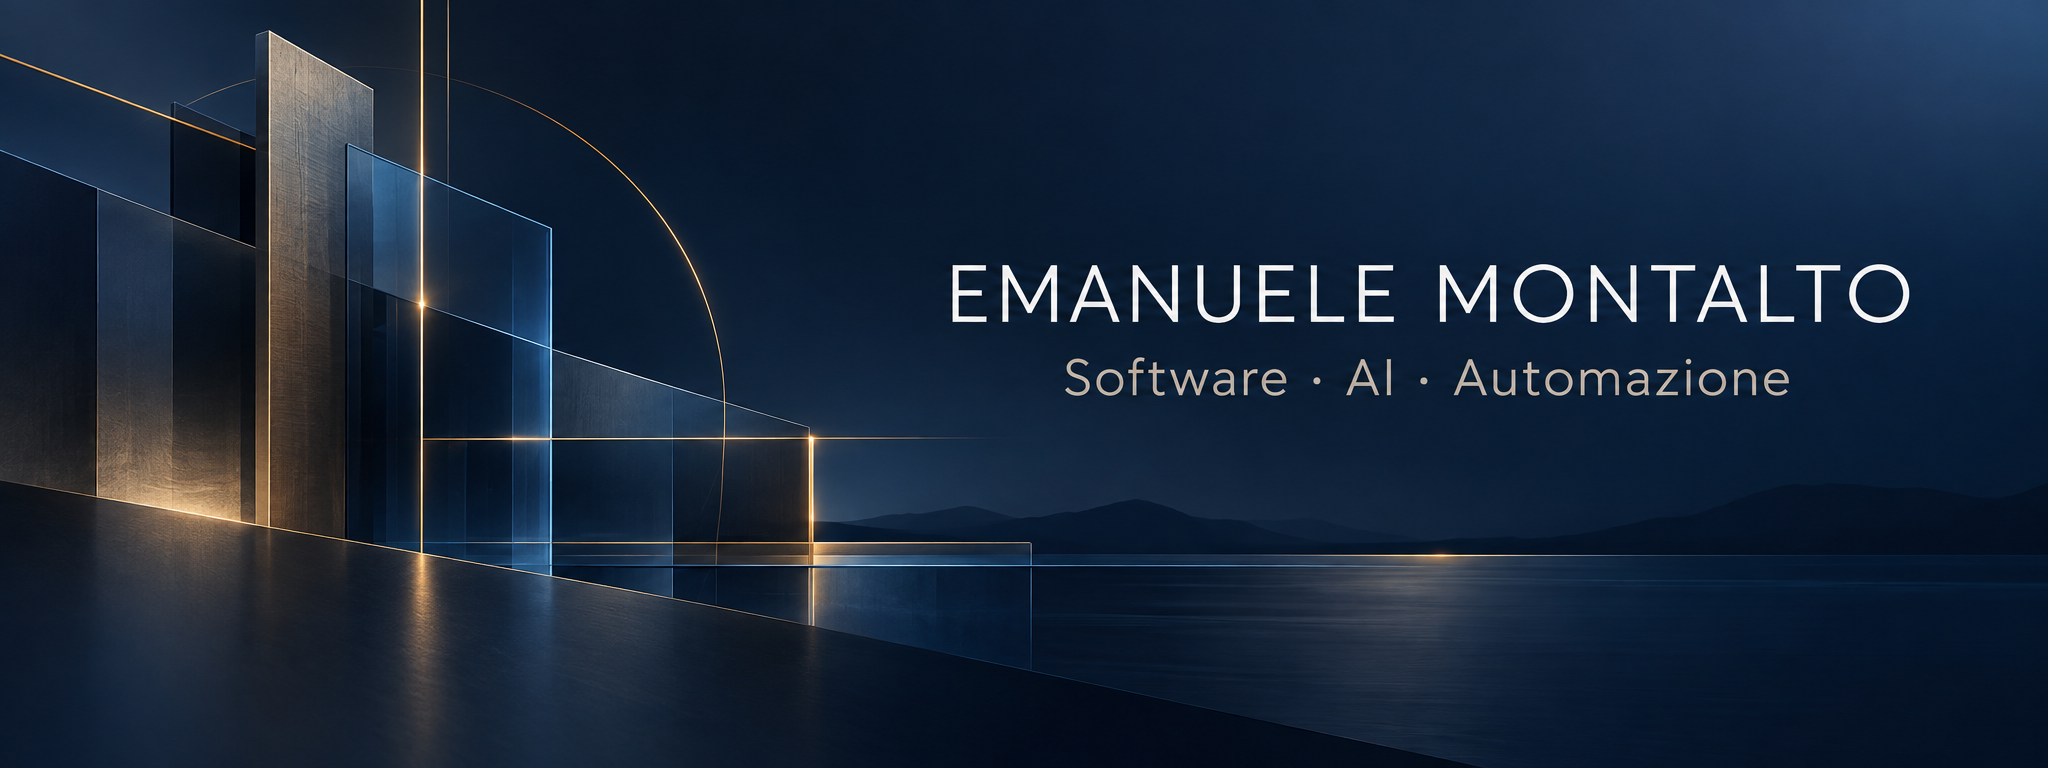
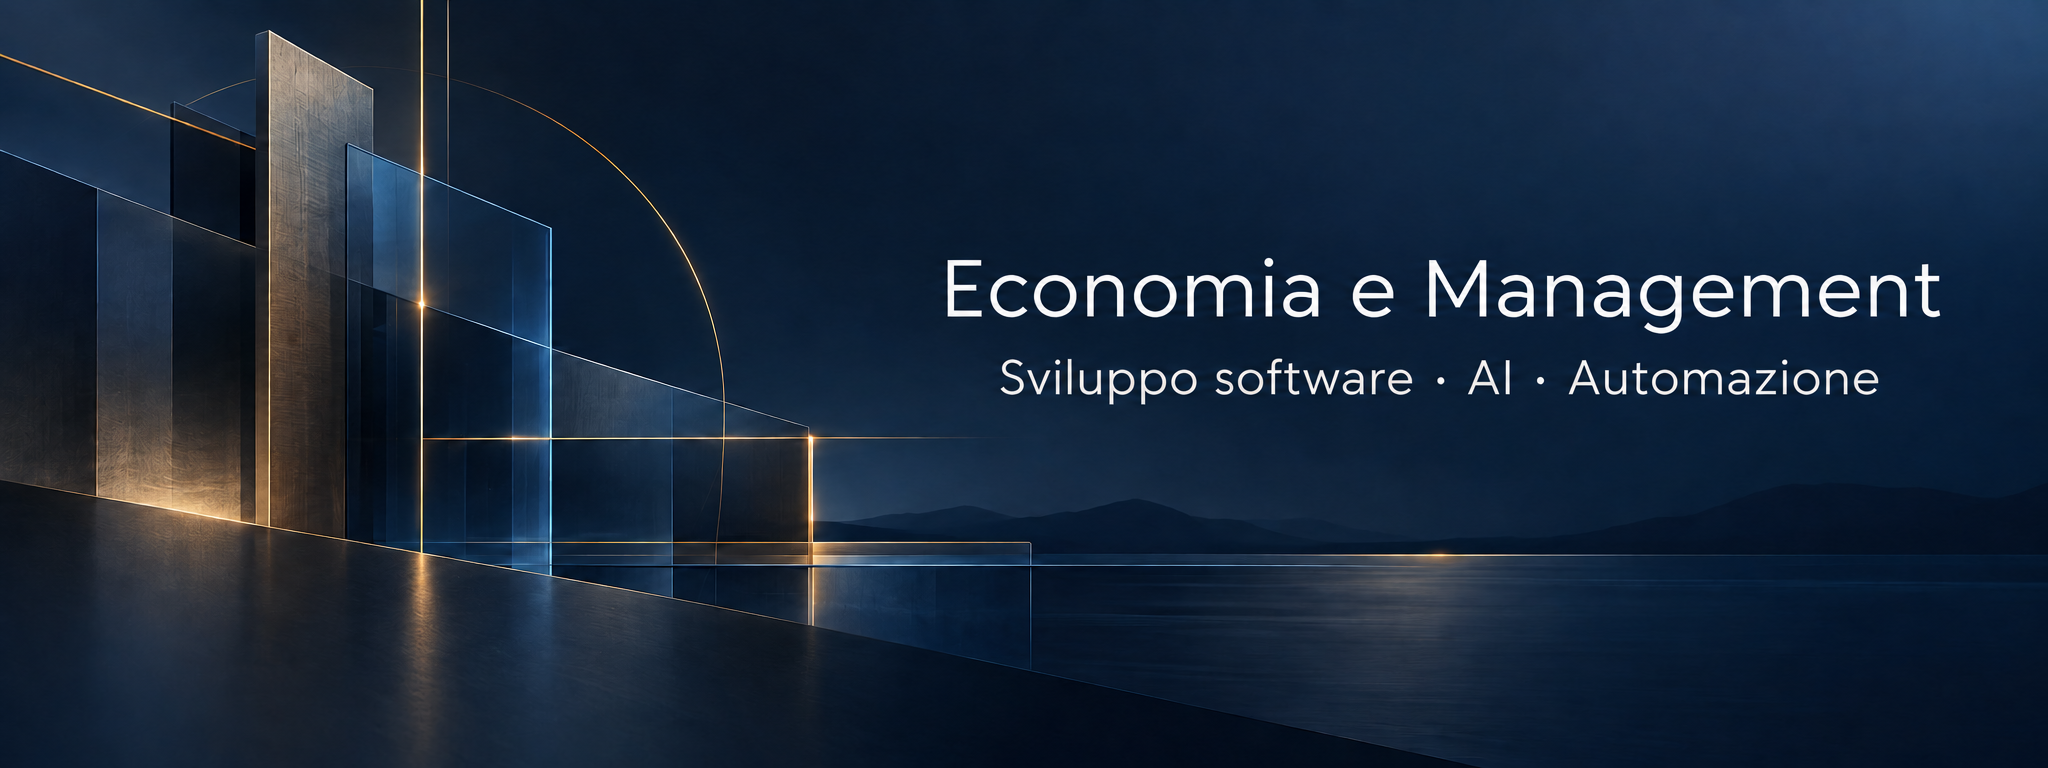
Present project overview without private implementation

diff --git a/README.md b/README.md
@@ -1,10 +1,10 @@
-<img src="assets/banner.png" alt="Emanuele Montalto — Software, AI e automazione" width="100%" />
+<img src="assets/banner.png" alt="Economia e Management — Sviluppo software, AI e automazione" width="100%" />
 
 # Ciao, sono Emanuele
 
 Software Developer a Roma. Unisco la formazione in **Economia e Management** allo sviluppo di **applicazioni web, integrazioni AI e automazione**.
 
-Lavoro in **Caes Software** da marzo 2025. Sto completando la magistrale a **Tor Vergata**: esami conclusi, tesi da completare. Nel 2024 ho ricevuto il primo premio all’Ideathon **Blockchain Innovation Day** promosso da ICP Hub Italia.
+Lavoro in **Caes Software** da marzo 2025. Laurea magistrale in **Economia e Management** in corso a **Tor Vergata**, con esami completati e tesi di laurea da completare. Nel 2024 ho ricevuto il primo premio all’Ideathon **Blockchain Innovation Day** promosso da ICP Hub Italia.
 
 [Portfolio e demo](https://portfolio.lele-tradevalue.com) · [English résumé](https://portfolio.lele-tradevalue.com/cv/emanuele-montalto-en.pdf) · [LinkedIn](https://www.linkedin.com/in/emanuele-montalto-bba6a9300/) · [Contatto](mailto:montalto36@gmail.com)
 
@@ -14,8 +14,8 @@ Lavoro in **Caes Software** da marzo 2025. Sto completando la magistrale a **Tor
 |---|---|
 | [Splitro](https://github.com/lelee25/splitro-showcase) | App per ripartire spese di viaggio tra partecipanti, con interfaccia web e integrazione Telegram. [Scheda ↗](https://portfolio.lele-tradevalue.com/progetti/splitro/) |
 | [RECALL](https://github.com/lelee25/recall-showcase) | Sistema personale di raccolta, ricerca e organizzazione della conoscenza a partire da contenuti e screenshot. [Scheda ↗](https://portfolio.lele-tradevalue.com/progetti/recall/) |
-| [Ahoo](https://github.com/lelee25/ahoo-showcase) | Assistente domestico con web app e integrazione Home Assistant. [Scheda ↗](https://portfolio.lele-tradevalue.com/progetti/ahoo/) |
-| [Il Mago dell’Affare](https://github.com/lelee25/mago-showcase) | Piattaforma e-commerce con assistente, web app e integrazione Telegram. [Scheda ↗](https://portfolio.lele-tradevalue.com/progetti/mago/) |
+| [Assistente AI per la domotica](https://github.com/lelee25/assistente-domotico-showcase) | Assistente domestico con web app e integrazione Home Assistant. [Scheda ↗](https://portfolio.lele-tradevalue.com/progetti/assistente-domotico/) |
+| [E-commerce e assistente AI](https://github.com/lelee25/ecommerce-assistente-ai-showcase) | Piattaforma e-commerce con assistente, web app e integrazione Telegram. [Scheda ↗](https://portfolio.lele-tradevalue.com/progetti/ecommerce-assistente-ai/) |
 | [ReduceAll](https://github.com/lelee25/reduceall-showcase) | Web app per compressione, conversione e strumenti di elaborazione dei documenti. [Scheda ↗](https://portfolio.lele-tradevalue.com/progetti/reduceall/) |
 | [TRADEVALUE](https://github.com/lelee25/tradevalue-showcase) | Workspace personale di analisi dei mercati con agenti e dashboard. [Scheda ↗](https://portfolio.lele-tradevalue.com/progetti/tradevalue/) |
 
